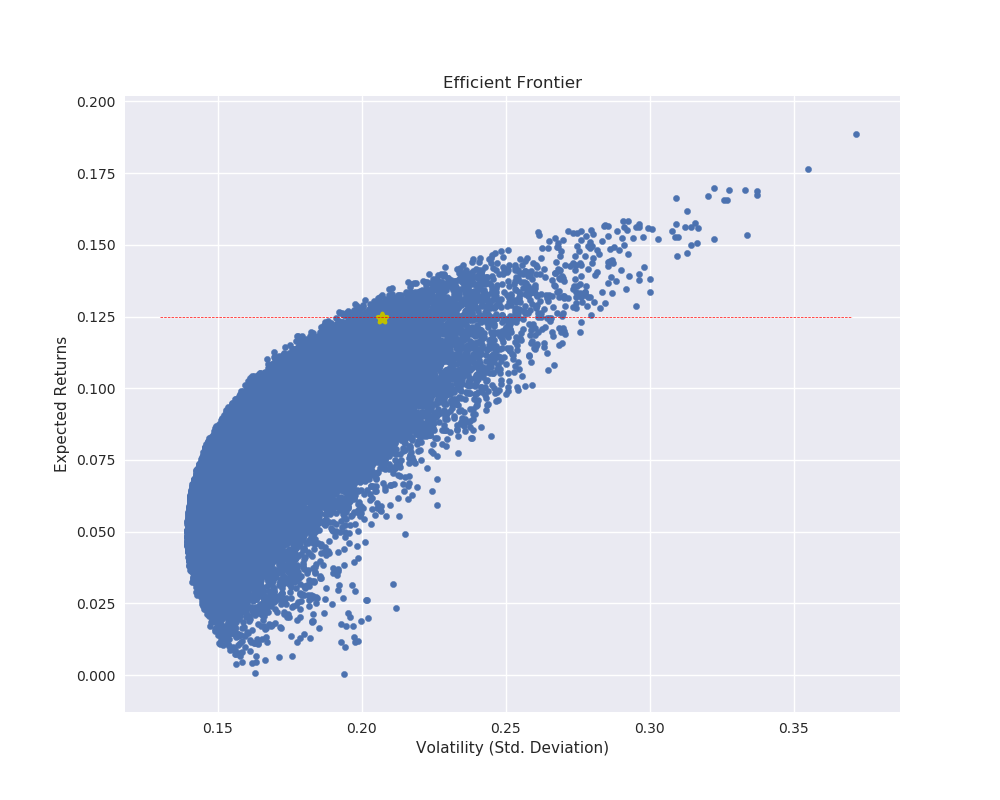
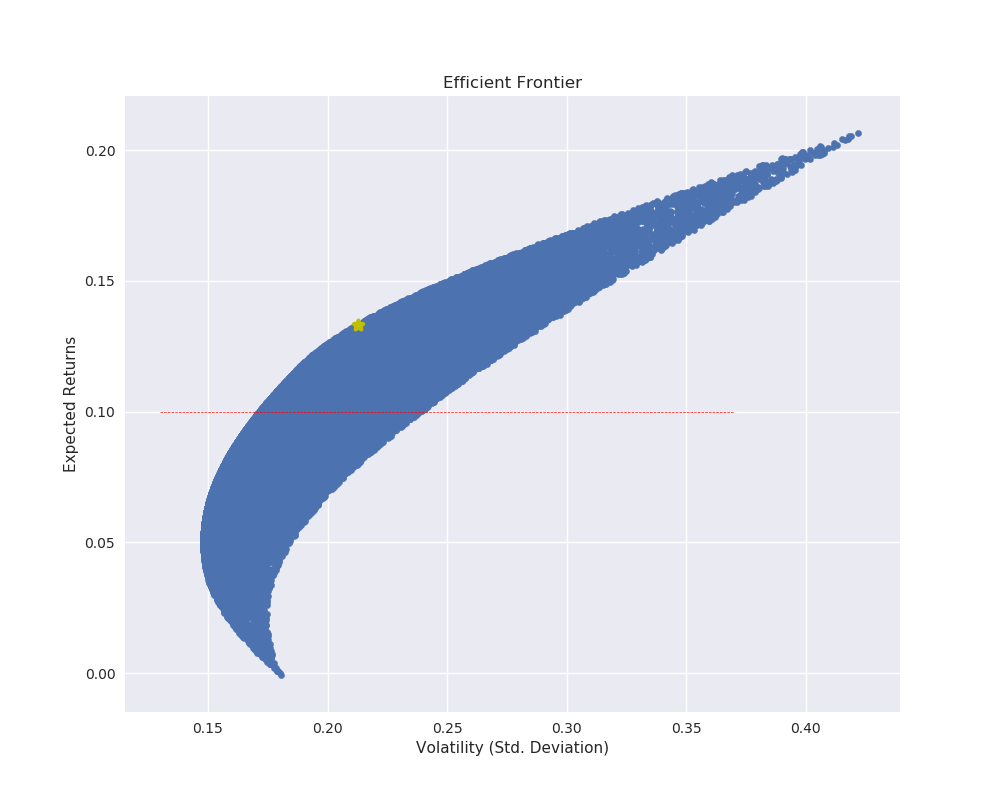
_fuzzy_constraints_ed_2

diff --git a/toy_example.py b/toy_example.py
@@ -1,0 +1,101 @@
+
+
+try:
+    import tensorflow.compat.v1 as tf
+except Exception:
+    pass
+
+#import tensorflow.compat.v1 as tf
+import numpy as np
+import pandas as pd
+import matplotlib.pyplot as plt
+dim_ = 2
+def create_tf_fill_value(shape, value):
+    assert isinstance(shape, tuple)
+    data_x_tf = np.asarray(np.zeros((shape)) + value, np.float32)
+    data_x_tf = tf.convert_to_tensor(data_x_tf, np.float32)
+    return data_x_tf
+    
+def show_tf(tensor_):
+    with tf.Session() as sess:
+        tf.global_variables_initializer().run()
+        print(sess.run(tensor_))
+def fill_value_vector(value, shape):
+    tensor_fill_value = tf.ones(shape) + value - 1
+    return  tensor_fill_value
+class Model(object):
+    
+    def __init__(self, dimensional = 2, a = None, b = None, value = 0., learning_rate = 0.1):
+        self._x = fill_value_vector(value, tuple((dimensional, )))
+        self._dimensional = dimensional
+        self._a_const = tf.constant(a, name = 'a', dtype = tf.float32)
+        self._b_const = tf.constant(b, name = 'b', dtype = tf.float32)
+        self._learning_rate = learning_rate
+        self._Energy = tf.reduce_sum(tf.square(self._x))
+        
+    def __call__(self): # Бесполезная по сути
+        return self._x + (self._a_const + self._b_const)
+    
+    
+    def __repr__(self):
+        with tf.Session() as sess:
+            tf.global_variables_initializer().run()
+            str_x_ = str(sess.run(self._x))
+            str_a = str(sess.run(self._a_const))
+            str_b = str(sess.run(self._b_const))
+        return str_x_ + " const: (%s, %s)" % ( str_a, str_b )    
+    
+    def Energy_mutable(self):
+        self._Energy = tf.reduce_sum(tf.square(self._x))
+    
+                
+learning_rate = 0.01
+model =  Model(dimensional = 3, a = 2., b = 3., value = 1., 
+               learning_rate = learning_rate)
+show_tf(model._Energy)
+def system_functions(model):
+    f_1 = tf.add(tf.reduce_sum(tf.square(model._x)), -model._a_const)
+    f_2 = tf.add(-tf.reduce_sum(tf.square(model._x)), model._b_const)
+    functionals_ = tf.reduce_min([f_1, f_2])
+    return functionals_
+def train(model):
+    with tf.GradientTape() as t:
+        t.watch(model._x)
+        current_funct_ = system_functions(model)
+        grad_x = t.gradient(current_funct_, model._x)
+        model._x = model._x + model._learning_rate * grad_x
+        model.Energy_mutable()
+        
+x_list = []
+current_energy_tf = []
+epochs = range(100)
+for epoch in epochs:
+    x_list.append((model._x))
+    current_funct_ = system_functions(model)
+    current_energy_tf.append(model._Energy)
+    train(model)
+    #print('Epoch %d and X vector: %s' % (epoch, model))
+    
+current_energy_ = []
+current_point = []
+def write_list_of_tensors(x_list, current_function):    
+    with tf.Session() as sess:
+        for item in range(len(x_list)):
+            current_energy_.append(sess.run(current_function[item]))
+            current_point.append(sess.run(x_list[item]))
+            #print(sess.run(x_list[item]))
+            #print(sess.run(current_function[item]))
+        
+write_list_of_tensors(x_list, current_energy_tf)
+print(current_energy_)
+### built graphs of energy ###
+fig, ax = plt.subplots(figsize = (8, 6))
+data_x = [a for a in range(len(x_list))]
+ax.grid()
+ax.plot(data_x, current_energy_, 'b');
+ax.plot(data_x, [3. for b in range(len(data_x))], 'r');
+ax.plot(data_x, [2. for a in range(len(data_x))], 'r');
+ax.legend(['Enegry', 'bound_up', 'bound_down'], loc = 'lower left') # Место расположения легенды
+plt.savefig('Energy_1.png', format='png', dpi=100)
+plt.clf()
+

diff --git a/test_fuzzy_constr.py b/test_fuzzy_constr.py
@@ -1,26 +1,5 @@
 
-import tensorflow.compat.v2 as tf
-from scipy.optimize import minimize
-import numpy as np
 
-import matplotlib.pyplot as plt
-from matplotlib import cm
-
-from scipy.optimize import Bounds
-from scipy.optimize import LinearConstraint
-from scipy.optimize import NonlinearConstraint
-from class_function import function
-from class_nonlinear_constraints import Nonlinear_constraints, \
-											wr_cons_f, wr_cons_J, wr_cons_H, \
-											g_1, g_2, cons_1, cons_2, \
-											list_of_nonlinear_functions
-from mpl_toolkits.mplot3d import Axes3D
-from class_Markovitz import Markovitz_theory, _wrapper_marcovitz, wrapper_fuzzy_constraints_
-from scipy.optimize import minimize
-
-#### test simple example ####
-
-########## Markovitz test ##########
 model_ = Markovitz_theory() # создаём объект, который содержит наш функционал и параметры модели
 model_._initial_model_param_() # Инициализация начальных параметров, делается только один раз
 
@@ -34,7 +13,7 @@ function_mark = foo_markovitz_obj._wrapper()
 function_mark_grad = foo_markovitz_obj.wrapper_grad()
 function_mark_hess = foo_markovitz_obj.wrapper_hessian()
 
-Q = 0.100 # Минимальная прибль, которая нас интересует 
+Q = 0.125 # Минимальная прибль, которая нас интересует 
 model_.level_risks = Q
 linear_const_mark = model_._linear_constraints_(Q) # create a oblect LinearConstraints
 ### Вызываем решатель ###
@@ -48,24 +27,3 @@ model_.weights = tf.Variable(res_Markovitz.x[:, np.newaxis])
 model_.plot_a_convex_field(stack_data = None) # Построить без большого количества повторений для одного уровня риска Q
 print(model_._volatility_().numpy(), model_.__return_total__().numpy(),
                 Q, np.sum(model_.weights.numpy()))
-### Мы хотим получить значения как менялись наши значения параметров ### 
-evolution_param = foo_markovitz_obj.stack_arg
-
-def _evolution_plot(evol_param):
-	x_1 = [a[0] for a in evol_param]
-	x_2 = [a[1] for a in evol_param]
-	x_3 = [a[2] for a in evol_param]
-
-	fig = plt.figure()
-	ax = fig.add_subplot(111, projection = '3d')
-	ax.scatter(x_1, x_2, x_3, label = 'parametric curve')
-	ax.set_xlabel("w_1")
-	ax.set_ylabel("w_2")
-	ax.set_zlabel("w_3")
-	ax.set_xlim(0, 1)
-	ax.set_ylim(0, 1)
-	ax.set_zlim(0, 1)
-	ax.view_init(30, 100)
-	plt.savefig('evolve.png')
-
-_evolution_plot(evolution_param)

diff --git a/class_Markovitz.py b/class_Markovitz.py
@@ -16,7 +16,8 @@ from scipy.optimize import NonlinearConstraint
 
 #############
 key_const = 'f8nzs159xkB-_NJg4LCB'
-dict_of_securities = ['CNP', 'F', 'WMT', 'GE', 'TSLA'] 
+dict_of_securities = ['WMT', 'GE', 'TSLA'] 
+#dict_of_securities = ['CNP', 'F', 'WMT', 'GE', 'TSLA'] 
 quandl.ApiConfig.api_key = key_const
 trading_days = 252
 #############
@@ -143,6 +144,7 @@ def wrapper_fuzzy_constraints_(model_mark):
 	cov_matrix = model_mark.cov_daily_tf
 	max_indeces = model_mark.weights.shape[0]
 	def _stack_indeces_(max_value_index):
+			print("please enter a fuzzy indeces: \n")
 			flag = True
 			indeces = []
 			while(flag):
@@ -172,13 +174,13 @@ def wrapper_fuzzy_constraints_(model_mark):
 		lambda_weight = tf.random.uniform(shape = (2,), minval = 1., maxval  = 2.)
 		linear_functional = markovitz_functionals * lambda_weight[0].numpy() + fuzzy_functional * lambda_weight[1].numpy()
 		##### Chebyshev functionals ####
-		chebyshev_flag = False
+		chebyshev_flag = True
 		if(chebyshev_flag):
 			epsilon = 1. # Непонятно как его подбирать из каких соображений
 			lambda_weight = tf.random.uniform(shape = (2,), minval = 1., maxval  = 2.)
-			chebyshev_f = tf.reduce_min([lambda_weight[0] * fuzzy_functional, lambda_weight[1] * markovitz_functionals]) + \
-													tf.constant(epsilon) * tf.reduce_sum([fuzzy_functional, markovitz_functionals])
-		return linear_functional
+			chebyshev_f = tf.reduce_min([lambda_weight[0].numpy() * fuzzy_functional, lambda_weight[1].numpy() * markovitz_functionals]) + \
+													tf.constant(epsilon).numpy() * tf.reduce_sum([fuzzy_functional, markovitz_functionals])
+		return chebyshev_f
 	return _fuzzy_constraints_
 
 def _wrapper_marcovitz(model_mark):

diff --git a/class_function.py b/class_function.py
@@ -23,7 +23,7 @@ class function(tf.Module):
             self._tensor = tf.Variable(x_numpy)
             self._times_call_change = 0
             self._functional_obj = functional_obj 
-
+            self.stack_arg = [] 
     def __call__(self, some_parameter = 0): 
         return self._functional_obj(self._tensor) 
 
@@ -41,7 +41,8 @@ class function(tf.Module):
                 self._tensor.assign(x_new_tensor)
         if(self._times_call_change % 4 == 0):
             print('current value of x: {!s} \n current of Function: {!s} \n'.format(self._tensor.numpy(), 
-            															self.__call__().numpy()))
+            							self.__call__().numpy()))
+            self.stack_arg.append(self._tensor.numpy())
 
         assign_(new_vector)
 
